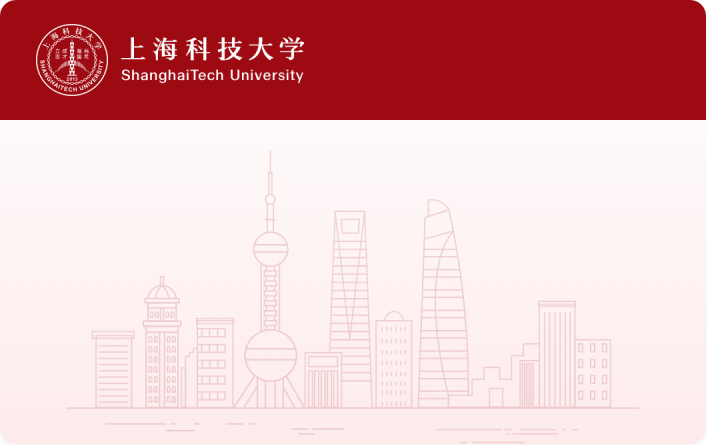
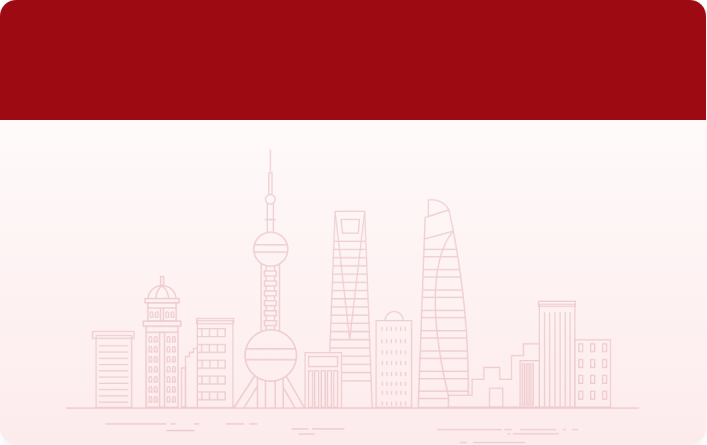
fix(ios): backport campus card branding cleanup for 1.0.2+15
Backport PR #159 onto release/1.0.2 and increment the iOS build number.

Changed region(s): [[0.0311, 0.0292, 0.4356, 0.2337]]

diff --git a/lib/features/campus_card/presentation/scanner/scanner_modal.dart b/lib/features/campus_card/presentation/scanner/scanner_modal.dart
@@ -327,7 +327,7 @@ final class _ScanConfirmationOverlay extends StatelessWidget {
                       const SizedBox(width: 12),
                       const Expanded(
                         child: Text(
-                          '上海科技大学 eCard',
+                          '校园卡',
                           style: TextStyle(
                             fontSize: 16,
                             fontWeight: FontWeight.w600,
@@ -453,7 +453,7 @@ final class _PayAuthorizationOverlay extends StatelessWidget {
                         const SizedBox(width: 12),
                         const Expanded(
                           child: Text(
-                            '上海科技大学 eCard',
+                            '校园卡',
                             style: TextStyle(fontWeight: FontWeight.w600),
                           ),
                         ),

diff --git a/lib/features/campus_card/presentation/screens/card_manage_screen.dart b/lib/features/campus_card/presentation/screens/card_manage_screen.dart
@@ -306,7 +306,7 @@ class _CardManageScreenState extends ConsumerState<CardManageScreen>
                             ),
                             const SizedBox(height: 22),
                             Text(
-                              '上海科技大学 eCard',
+                              '校园卡',
                               textAlign: TextAlign.center,
                               style: TextStyle(
                                 color: context.gpColors.textPrimary,

diff --git a/test/campus_card/presentation/startup_routing_test.dart b/test/campus_card/presentation/startup_routing_test.dart
@@ -408,7 +408,7 @@ void main() {
       }
       expect(find.byKey(const Key('card-manage-page')), findsOneWidget);
       expect(find.text('OPENID'), findsNothing);
-      expect(find.text('上海科技大学 eCard'), findsOneWidget);
+      expect(find.text('校园卡'), findsOneWidget);
       expect(find.text('退出登录'), findsNothing);
 
       auth.expire();

diff --git a/lib/features/campus_card/presentation/widgets/apple_wallet_components.dart b/lib/features/campus_card/presentation/widgets/apple_wallet_components.dart
@@ -429,7 +429,7 @@ final class CampusWalletCard extends StatelessWidget {
 
     return Semantics(
       button: onTap != null,
-      label: '上海科技大学 eCard',
+      label: '校园卡',
       child: ExcludeSemantics(
         child: DecoratedBox(
           decoration: BoxDecoration(
